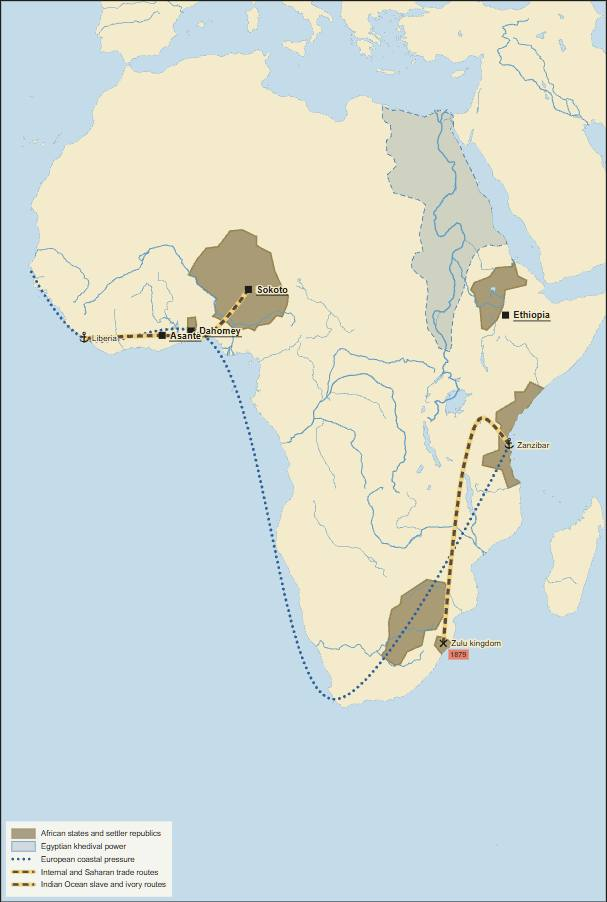
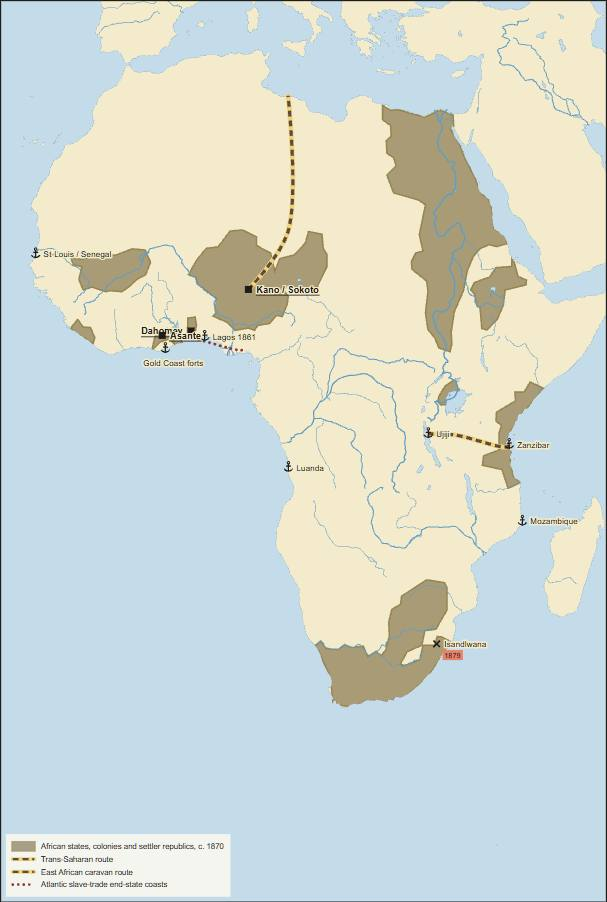
Rebuild national states plates with historical shapes
Copilot-Session: 37f2f47f-8b63-49cd-b8ce-cded564ac449

diff --git a/atlas/plates/canadian-confederation-cpr-resistance-1867-1885.js b/atlas/plates/canadian-confederation-cpr-resistance-1867-1885.js
@@ -1,17 +1,25 @@
 (function(){
- const CAN="#b22d2d", TREATY="#d8a84f", HBC="#9a855f", ROAD="#5b4a3f", WAR="#8c3b3b";
- const canadaClip=[[-141,49],[-123,49],[-115,54],[-103,54],[-96,50],[-83,48.8],[-76,48.3],[-70,50.2],[-60,50.8],[-52,53],[-52,42],[-141,42],[-141,49]];
- window.PLATES["canadian-confederation-cpr-resistance-1867-1885"]={id:"canadian-confederation-cpr-resistance-1867-1885",title:"Canadian Confederation, CPR and resistance, 1867-1885",head:"National states / Canada",folio:"Canadian synthesis",viewer:"national/1885/ch-canada-confederation-west",figures:[{caption:"Confederation goes west: provinces, treaties, railway and resistance",share:1,extent:[[-141,41],[-52,63]],projection:"conic",layers:[
-  {id:"canada",type:"area",hist:{year:1878,names:["Canada"]},clipPolygon:canadaClip,colour:CAN,tier:"core",legend:"Dominion of Canada by the late 1870s"},
-  {id:"ruperts",type:"area",hist:{year:1800,names:["Rupert's Land"]},colour:HBC,tier:"influence",legend:"Rupert's Land inheritance"},
-  {id:"treaties",type:"area",polygon:[[-97,49],[-111,49],[-114,51.5],[-110,53.5],[-100,52],[-96,50],[-97,49]],clipToLand:true,colour:TREATY,tier:"conquest",legend:"Treaties 1-7 belt"},
-  {id:"cpr",type:"route",style:"road",weight:2.8,colour:ROAD,legend:"Canadian Pacific Railway, completed 1885",path:[[-75.70,45.42],[-79.38,43.65],[-87,48],[-97.14,49.90],[-104.62,50.45],[-108.30,52.78],[-115.35,51.25],[-119.29,50.84],[-123.37,48.43]]},
+ const C1867="#b22d2d", C1870="#c45a3c", C1871="#3f8f5b", C1873="#8c5aa3", NWT="#d8a84f", TREATY="#6b5b2e", NL="#b8b1a1", ROAD="#5b4a3f";
+ const height=[[-86,48.6],[-84,48.9],[-81,48.7],[-79.5,48.4],[-76,48.3],[-73,49.4],[-70,50.2],[-66,50.4],[-60,50.6],[-57.1,51.4]];
+ const onQcClip=[...height,[-57.1,45.2],[-70,45.0],[-76,43.5],[-79,43.0],[-83,41.6],[-86,41.6],[-86,48.6]];
+ const nwtClip=[[-141,49],[-123,49],[-115,54.5],[-100,55],[-95,51],[-86,49],[-86,62],[-141,62],[-141,49]];
+ const manitoba=[[-99.0,49.0],[-96.5,49.0],[-96.5,50.2],[-99.0,50.2],[-99.0,49.0]];
+ const treaties=[[-97.2,49.0],[-101.5,49.0],[-105.5,49.2],[-110.8,49.6],[-114.6,50.8],[-115.5,51.6],[-113.5,52.5],[-108.8,53.6],[-103.5,52.6],[-99.5,51.0],[-96.7,50.0],[-97.2,49.0]];
+ window.PLATES["canadian-confederation-cpr-resistance-1867-1885"]={id:"canadian-confederation-cpr-resistance-1867-1885",title:"Canadian Confederation, CPR and resistance, 1867-1885",head:"National states / Canada",folio:"Canadian synthesis",viewer:"national/1885/ch-canada-confederation-west",figures:[{caption:"Confederation by joining date, treaties and the CPR",share:1,extent:[[-140,40],[-50,62]],projection:"conic",layers:[
+  {id:"nwt",type:"area",hist:{year:1880,names:["Canada"]},clipPolygon:nwtClip,colour:NWT,tier:"influence",legend:"North-West Territories after 1870"},
+  {id:"on-qc",type:"area",regions:["CA-ON","CA-QC"],clipPolygon:onQcClip,colour:C1867,tier:"core",legend:"1867: Ontario and Quebec (southern settled extent)"},
+  {id:"ns-nb",type:"area",regions:["CA-NS","CA-NB"],colour:C1867,tier:"core",legend:"1867: Nova Scotia and New Brunswick"},
+  {id:"manitoba",type:"area",around:manitoba,clipToLand:true,colour:C1870,tier:"core",legend:"1870: Manitoba postage-stamp province"},
+  {id:"bc",type:"area",regions:["CA-BC"],colour:C1871,tier:"core",legend:"1871: British Columbia"},
+  {id:"pei",type:"area",regions:["CA-PE"],colour:C1873,tier:"core",legend:"1873: Prince Edward Island"},
+  {id:"newfoundland",type:"area",regions:["CA-NL"],colour:NL,tier:"influence",legend:"Newfoundland neutral; joined Canada in 1949"},
+  {id:"treaties",type:"area",around:treaties,clipToLand:true,pattern:"hatch",colour:TREATY,legend:"Treaties 1-7 belt, 1871-77"},
+  {id:"cpr",type:"route",style:"road",weight:2.8,colour:ROAD,legend:"Canadian Pacific Railway, completed 1885",path:[[-73.56,45.50],[-75.70,45.42],[-79.46,46.31],[-80.99,46.49],[-84.35,46.52],[-89.25,48.38],[-97.14,49.90],[-104.62,50.45],[-114.07,51.05],[-116.45,51.30],[-118.60,50.98],[-122.85,49.28],[-123.12,49.28]]},
   {id:"charlottetown",type:"point",symbol:"conference",at:[-63.13,46.24],name:"Charlottetown",labelPos:"e",tag:{text:"1864",colour:"#f1c75b"}},
+  {id:"quebec",type:"point",symbol:"conference",at:[-71.21,46.81],name:"Quebec Conf.",labelPos:"e",tag:{text:"1864",colour:"#f1c75b"}},
   {id:"ottawa",type:"point",symbol:"capital",at:[-75.70,45.42],name:"Ottawa",labelPos:"s",tag:{text:"1867",colour:"#f1c75b"}},
-  {id:"red-river",type:"point",symbol:"insurrection",at:[-97.14,49.90],name:"Red River / Manitoba",labelPos:"n",tag:{text:"1870",colour:"#e8806a"}},
-  {id:"bc",type:"point",symbol:"port",at:[-123.37,48.43],name:"British Columbia",labelPos:"e",tag:{text:"1871",colour:"#f1c75b"}},
-  {id:"batoche",type:"point",symbol:"battle",at:[-108.30,52.78],name:"Batoche",labelPos:"n",tag:{text:"1885",colour:"#e8806a"}},
-  {id:"regina",type:"point",symbol:"capital",at:[-104.62,50.45],name:"Regina",labelPos:"s",tag:{text:"Riel",colour:"#e8806a"}},
-  {id:"last",type:"point",symbol:"port",at:[-119.29,50.84],name:"Last Spike",labelPos:"n",tag:{text:"1885",colour:"#f1c75b"}}
- ],legend:{position:"bottom-left",columns:1}}],text:{intro:"The book skips Canada here, but a national-states round needs the Canadian case: Confederation, treaty-making, railway construction and prairie resistance.",sections:[{heading:"State-building",entries:[{date:"1864-1885",text:"Confederation begins in the east, absorbs the Hudson's Bay Company west, then ties the map together with treaties and the CPR.",refs:["canada","ruperts","treaties","cpr","charlottetown","ottawa","bc","last"]},{date:"1870-1885",text:"Red River and the North-West Resistance show that western expansion was contested by Metis and First Nations actors, not empty-space administration.",refs:["red-river","batoche","regina"]}]}]},sources:["Canadian synthesis added for Ford's Vol. 2 round 3 priorities"]};
+  {id:"red-river",type:"point",symbol:"insurrection",at:[-97.14,49.90],name:"Red River / Winnipeg",labelPos:"n",tag:{text:"1870",colour:"#e8806a"}},
+  {id:"batoche",type:"point",symbol:"battle",at:[-106.10,52.75],name:"Batoche / Riel",labelPos:"n",tag:{text:"1885",colour:"#e8806a"}},
+  {id:"last",type:"point",symbol:"port",at:[-118.60,50.98],name:"Last Spike",labelPos:"n",tag:{text:"1885",colour:"#f1c75b"}}
+ ],legend:{position:"bottom-left",columns:1}}],text:{intro:"Canada is redrawn with province and territorial shapes instead of a single block: 1867 provinces, Manitoba, the North-West Territories, British Columbia and PEI remain distinct, while Newfoundland is deliberately left neutral because it joined only in 1949.",sections:[{heading:"State-building",entries:[{date:"1864-1873",text:"Charlottetown and Quebec produce Confederation; Ontario, Quebec, Nova Scotia and New Brunswick begin it, Manitoba, British Columbia and PEI join in sequence.",refs:["on-qc","ns-nb","manitoba","bc","pei","charlottetown","quebec","ottawa"]},{date:"1871-1885",text:"Treaties 1-7, Red River, the CPR and Batoche show that western expansion was negotiated, coerced and resisted rather than empty-space administration.",refs:["nwt","treaties","cpr","red-river","batoche","last"]},{date:"1949",text:"Newfoundland is shown neutral in this frame; it was not part of Confederation until 1949.",refs:["newfoundland"]}]}]},sources:["Canadian synthesis added for Ford's Vol. 2 round 3 priorities"]};
 })();

diff --git a/atlas/plates/us-civil-war-reconstruction-1854-1877.js b/atlas/plates/us-civil-war-reconstruction-1854-1877.js
@@ -1,18 +1,22 @@
 (function(){
- const UNION="#2f7f86", CONF="#8c3b3b", BORDER="#d8a84f", ROAD="#5b4a3f";
- window.PLATES["us-civil-war-reconstruction-1854-1877"]={id:"us-civil-war-reconstruction-1854-1877",title:"United States: Civil War and Reconstruction, 1854-1877",head:"National states / USA",folio:"94-95",viewer:"national/1863/ch-us-civil-war-reconstruction",figures:[{caption:"Secession, campaigns and the contested peace",share:1,extent:[[-103,24],[-66,43]],projection:"conic",layers:[
-  {id:"usa",type:"area",hist:{year:1878,names:["United States of America"]},colour:UNION,tier:"influence",legend:"United States after the war"},
-  {id:"confed",type:"area",polygon:[[-94,36.5],[-89,36.5],[-82,35],[-75,36],[-76,34],[-80,25],[-86,30],[-94,29],[-94,36.5]],clipToLand:true,colour:CONF,tier:"core",legend:"Confederate states, 1861-65"},
-  {id:"border",type:"area",polygon:[[-95,39.5],[-76,39.5],[-75,36],[-83,37.5],[-89,37],[-95,37],[-95,39.5]],clipToLand:true,colour:BORDER,tier:"conquest",legend:"Border-state hinge"},
-  {id:"anaconda",type:"route",style:"dashed",geo:true,weight:2.6,colour:UNION,legend:"Union blockade / Anaconda",path:[[-74,40],[-78,36],[-80,32],[-82,29],[-89,29],[-91,30],[-90.88,32.35]]},
-  {id:"east",type:"route",style:"road",weight:2.4,colour:CONF,legend:"Eastern theatre",path:[[-79.93,32.78],[-77.44,37.54],[-77.23,39.83],[-78.81,37.38]]},
-  {id:"sherman",type:"route",style:"road",weight:2.4,colour:UNION,legend:"Western theatre and Sherman",path:[[-90.88,32.35],[-84.39,33.75],[-79.93,32.78]]},
-  {id:"kansas",type:"point",symbol:"insurrection",at:[-95.24,38.97],name:"Kansas",labelPos:"w",tag:{text:"1854",colour:"#f1c75b"}},
-  {id:"sumter",type:"point",symbol:"battle",at:[-79.93,32.78],name:"Fort Sumter",labelPos:"e",tag:{text:"1861",colour:"#e8806a"}},
-  {id:"richmond",type:"point",symbol:"capital",at:[-77.44,37.54],name:"Richmond",labelPos:"s"},
+ const UNION="#2f7f86", CONF="#8c3b3b", BORDER="#d8a84f", KS="#b36b2e", ROAD="#5b4a3f";
+ window.PLATES["us-civil-war-reconstruction-1854-1877"]={id:"us-civil-war-reconstruction-1854-1877",title:"United States: Civil War and Reconstruction, 1854-1877",head:"National states / USA",folio:"94-95",viewer:"national/1863/ch-us-civil-war-reconstruction",figures:[{caption:"Secession, campaigns and the contested peace",share:0.72,extent:[[-105,24],[-66,46]],projection:"conic",layers:[
+  {id:"union",type:"area",hist:{year:1880,names:["United States of America"]},colour:UNION,tier:"influence",legend:"United States / Union"},
+  {id:"confed",type:"area",regions:["US-SC","US-MS","US-FL","US-AL","US-GA","US-LA","US-TX","US-VA","US-AR","US-NC","US-TN"],colour:CONF,tier:"core",legend:"Confederate states, 1861-65"},
+  {id:"border",type:"area",regions:["US-MO","US-KY","US-MD","US-DE","US-WV"],pattern:"hatch",colour:BORDER,legend:"Border slave states in the Union"},
+  {id:"kansas",type:"area",regions:["US-KS"],pattern:"crosshatch",colour:KS,legend:"Kansas-Nebraska flashpoint, 1854"},
+  {id:"blockade",type:"route",style:"dotted",geo:true,weight:2.4,colour:UNION,legend:"Anaconda blockade offshore",path:[[-74,40],[-76,36],[-80,31],[-84,28],[-90,28],[-95,29],[-97,28]]},
+  {id:"grant",type:"route",style:"road",weight:2.5,colour:UNION,legend:"Grant on the Mississippi",path:[[-89.18,37.01],[-88.35,35.14],[-90.88,32.35]]},
+  {id:"sherman",type:"route",style:"road",weight:2.5,colour:UNION,legend:"Sherman: Chattanooga-Atlanta-Savannah-Carolinas",path:[[-85.31,35.05],[-84.39,33.75],[-81.09,32.08],[-79.93,32.78],[-78.64,35.78]]},
+  {id:"east",type:"route",style:"dashed",weight:2.4,colour:CONF,legend:"Eastern theatre",path:[[-77.04,38.90],[-76.97,39.47],[-77.23,39.83],[-77.44,37.54],[-78.81,37.38]]},
   {id:"wash",type:"point",symbol:"capital",at:[-77.04,38.90],name:"Washington",labelPos:"e"},
+  {id:"richmond",type:"point",symbol:"capital",at:[-77.44,37.54],name:"Richmond",labelPos:"s"},
+  {id:"antietam",type:"point",symbol:"battle",at:[-76.97,39.47],name:"Antietam",labelPos:"w",tag:{text:"1862",colour:"#e8806a"}},
   {id:"gettysburg",type:"point",symbol:"battle",at:[-77.23,39.83],name:"Gettysburg",labelPos:"n",tag:{text:"1863",colour:"#e8806a"}},
   {id:"vicksburg",type:"point",symbol:"battle",at:[-90.88,32.35],name:"Vicksburg",labelPos:"w",tag:{text:"1863",colour:"#e8806a"}},
+  {id:"atlanta",type:"point",symbol:"battle",at:[-84.39,33.75],name:"Atlanta",labelPos:"e",tag:{text:"1864",colour:"#e8806a"}},
   {id:"appomattox",type:"point",symbol:"treaty",at:[-78.81,37.38],name:"Appomattox",labelPos:"w",tag:{text:"1865",colour:"#f1c75b"}}
- ],legend:{position:"bottom-left",columns:1}}],text:{intro:"The U.S. national-state crisis is the slavery expansion question becoming secession and war, then Reconstruction and its retreat.",sections:[{heading:"War and aftermath",entries:[{date:"1854-1861",text:"Kansas-Nebraska and Dred Scott make slavery in the territories the central constitutional fight.",refs:["kansas","border"]},{date:"1861-1865",text:"The Confederacy fights from Richmond; the Union blockade, Mississippi campaign and eastern battles lead to Appomattox.",refs:["confed","anaconda","east","sherman","gettysburg","vicksburg","appomattox"]},{date:"1865-1877",text:"Emancipation and constitutional amendments remake citizenship, but the end of Reconstruction leaves Jim Crow politics to harden in the South.",refs:["usa","confed"]}]}]},sources:["Penguin Atlas Vol. 2 pp. 94-95"]};
+ ],legend:{position:"bottom-left",columns:1}},{caption:"Reconstruction, 1865-1877",kind:"diagram",share:0.28,diagram:{height:0.58,nodes:[{id:"a13",label:"13th: slavery abolished, 1865",x:0.22,y:0.12,w:0.30,h:0.13,colour:UNION,strong:true},{id:"a14",label:"14th: citizenship, equal protection, 1868",x:0.31,y:0.36,w:0.38,h:0.13,colour:UNION,strong:true},{id:"a15",label:"15th: voting rights, 1870",x:0.60,y:0.12,w:0.28,h:0.13,colour:UNION,strong:true},{id:"end",label:"1877 compromise; federal retreat",x:0.32,y:0.64,w:0.36,h:0.13,colour:CONF}],arrows:[{id:"p1",from:"a13",to:"a14"},{id:"p2",from:"a14",to:"a15"},{id:"p3",from:"a15",to:"end",label:"Jim Crow hardens after retreat"}]}}],text:{intro:"The U.S. national-state crisis is the slavery expansion question becoming secession and war, then Reconstruction and its retreat.",sections:[{heading:"War",entries:[{date:"1854-1861",text:"Kansas-Nebraska and Dred Scott make slavery in the territories the central constitutional fight.",refs:["kansas","border"]},{date:"1861-1865",text:"The Confederacy includes the eleven seceded states. Union strategy combines blockade, Mississippi control, the western campaigns and the eastern contest around Washington and Richmond.",refs:["confed","blockade","grant","sherman","east","gettysburg","vicksburg","atlanta","appomattox"]}]},{heading:"Reconstruction",entries:[{date:"1865-1877",text:"The 13th, 14th and 15th Amendments remake citizenship and political rights. The 1877 compromise and federal retreat leave southern white Democratic governments to construct the Jim Crow order.",refs:["a13","a14","a15","end"]}]}]},sources:["Penguin Atlas Vol. 2 pp. 94-95"]};
 })();
+
+

diff --git a/atlas/plates/balkans-san-stefano-berlin-1878.js b/atlas/plates/balkans-san-stefano-berlin-1878.js
@@ -1,16 +1,28 @@
 (function(){
- const OTT="#9a6a32", RUS="#6b8c3f", BUL="#3f8f5b", SER="#b36b2e", AUS="#d8a84f";
- const bigBul=[[22,41],[24,44],[27,44.5],[29,43.4],[28.5,41],[26,40.2],[23,40.6],[22,41]];
- window.PLATES["balkans-san-stefano-berlin-1878"]={id:"balkans-san-stefano-berlin-1878",title:"The Balkans: San Stefano and Berlin, 1878",head:"National states / Balkans",folio:"80-83",viewer:"national/1878/ch-austria-hungary-balkans",figures:[{caption:"San Stefano's large Bulgaria cut down by Berlin",share:1,extent:[[12,39],[31,49]],projection:"conic",layers:[
-  {id:"ottoman",type:"area",hist:{year:1878,names:["Ottoman Empire"]},colour:OTT,tier:"influence",legend:"Ottoman Empire after Berlin"},
-  {id:"austria",type:"area",hist:{year:1878,names:["Austria Hungary"]},colour:AUS,tier:"influence",legend:"Austria-Hungary; Bosnia occupied"},
-  {id:"states",type:"area",hist:{year:1878,names:["Serbia","Romania","Bulgaria"]},colour:SER,tier:"core",legend:"Recognized or autonomous Balkan states"},
-  {id:"big-bulgaria",type:"area",around:bigBul,clipToLand:true,pattern:"stripe",colour:BUL,tier:"conquest",legend:"San Stefano Bulgaria, March 1878"},
-  {id:"russian",type:"route",style:"road",weight:2.5,colour:RUS,legend:"Russian advance, 1877-78",path:[[30.3,46.5],[26.0,43.2],[28.98,41.01]]},
-  {id:"san",type:"point",symbol:"treaty",at:[28.98,41.01],name:"San Stefano",labelPos:"e",tag:{text:"Mar 1878",colour:"#f1c75b"}},
-  {id:"berlin",type:"point",symbol:"treaty",at:[13.40,52.52],name:"Berlin",labelPos:"e",tag:{text:"Jul 1878",colour:"#f1c75b"}},
-  {id:"sofia",type:"point",symbol:"capital",at:[23.32,42.70],name:"Sofia"},
-  {id:"belgrade",type:"point",symbol:"capital",at:[20.46,44.82],name:"Serbia"},
-  {id:"bucharest",type:"point",symbol:"capital",at:[26.10,44.43],name:"Romania"}
- ],legend:{position:"bottom-left",columns:1}}],text:{intro:"The book's Balkan maps are about scale: San Stefano creates a large Russian-backed Bulgaria; Berlin cuts it down and makes the settlement a European balance-of-power compromise.",sections:[{heading:"Settlement",entries:[{date:"1878",text:"Berlin recognizes Serbia, Romania and Montenegro, makes Bulgaria smaller and autonomous, and lets Austria-Hungary occupy Bosnia-Herzegovina.",refs:["big-bulgaria","states","austria","ottoman","russian","san","berlin"]}]}]},sources:["Penguin Atlas Vol. 2 pp. 80-83"]};
+ const OTT="#9a6a32", RUS="#6b8c3f", BUL="#3f8f5b", SER="#b36b2e", AUS="#d8a84f", BRIT="#2f5f93";
+ const sanBul=[[25.0,43.8],[27.9,43.8],[28.6,42.6],[27.7,41.0],[25.5,40.2],[23.3,40.7],[21.6,41.7],[22.7,42.7],[24.0,43.3],[25.0,43.8]];
+ const rumelia=[[24.0,42.0],[27.8,42.0],[27.8,41.2],[25.5,40.6],[23.8,41.0],[24.0,42.0]];
+ window.PLATES["balkans-san-stefano-berlin-1878"]={id:"balkans-san-stefano-berlin-1878",title:"The Balkans: San Stefano and Berlin, 1878",head:"National states / Balkans",folio:"80-83",viewer:"national/1878/ch-austria-hungary-balkans",figures:[{caption:"March 1878: San Stefano",share:0.5,extent:[[12,34],[35,49]],projection:"conic",layers:[
+  {id:"ottoman-a",type:"area",hist:{year:1878,names:["Ottoman Empire"]},colour:OTT,tier:"influence",legend:"Ottoman Empire"},
+  {id:"romania-a",type:"area",hist:{year:1878,names:["Romania"]},colour:SER,tier:"core",legend:"Romania, Serbia, Montenegro, Greece"},
+  {id:"serbia-a",type:"area",hist:{year:1878,names:["Serbia","Montenegro","Greece"]},colour:SER,tier:"core"},
+  {id:"san-bulgaria",type:"area",around:sanBul,clipToLand:true,pattern:"hatch",colour:BUL,legend:"San Stefano Bulgaria: Danube to Aegean, including Macedonia"},
+  {id:"russian",type:"route",style:"road",weight:2.5,colour:RUS,legend:"Russian advance: Svishtov-Plevna-Shipka-Adrianople",path:[[25.35,43.62],[24.61,43.42],[25.32,42.75],[26.55,42.02],[26.56,41.68],[28.98,41.01]]},
+  {id:"plevna",type:"point",symbol:"battle",at:[24.61,43.42],name:"Plevna"},
+  {id:"shipka",type:"point",symbol:"battle",at:[25.32,42.75],name:"Shipka"},
+  {id:"san",type:"point",symbol:"treaty",at:[28.98,41.01],name:"San Stefano",tag:{text:"Mar 1878",colour:"#f1c75b"}}
+ ],legend:{position:"bottom-left",columns:1}},{caption:"July 1878: Berlin",share:0.5,extent:[[12,34],[35,49]],projection:"conic",layers:[
+  {id:"ottoman-b",type:"area",hist:{year:1878,names:["Ottoman Empire"]},colour:OTT,tier:"influence",legend:"Ottoman Empire after Berlin"},
+  {id:"austria",type:"area",hist:{year:1878,names:["Austria Hungary"]},colour:AUS,tier:"influence",legend:"Austria-Hungary"},
+  {id:"bosnia",type:"area",hist:{year:1880,names:["Bosnia-Herzegovina"]},pattern:"hatch",colour:AUS,legend:"Bosnia-Herzegovina under Austrian occupation"},
+  {id:"states",type:"area",hist:{year:1880,names:["Romania","Serbia","Montenegro","Bulgaria","Greece"]},colour:SER,tier:"core",legend:"Recognized or autonomous Balkan states"},
+  {id:"rumelia",type:"area",around:rumelia,clipToLand:true,pattern:"crosshatch",colour:BUL,legend:"Eastern Rumelia separate from Bulgaria"},
+  {id:"cyprus",type:"point",symbol:"port",at:[33.38,35.18],name:"Cyprus to Britain",labelPos:"w",tag:{text:"1878",colour:"#f1c75b"}},
+  {id:"berlin",type:"point",symbol:"treaty",at:[13.40,52.52],name:"Berlin",tag:{text:"Jul 1878",colour:"#f1c75b"}},
+  {id:"sofia",type:"point",symbol:"capital",at:[23.32,42.70],name:"Sofia",labelPos:"s"},
+  {id:"belgrade",type:"point",symbol:"capital",at:[20.46,44.82],name:"Belgrade",labelPos:"w"},
+  {id:"bucharest",type:"point",symbol:"capital",at:[26.10,44.43],name:"Bucharest",labelPos:"e"}
+ ],legend:{position:"bottom-left",columns:1}}],text:{intro:"The Balkan settlement is shown as the book's comparison: a large San Stefano Bulgaria and the smaller Berlin settlement with Bosnia occupied by Austria-Hungary and Eastern Rumelia separate.",sections:[{heading:"Settlement",entries:[{date:"March 1878",text:"Russian victory produces a large Bulgaria reaching toward the Aegean and Macedonia.",refs:["ottoman-a","romania-a","serbia-a","san-bulgaria","russian","plevna","shipka","san"]},{date:"July 1878",text:"Berlin recognizes or confirms Balkan states, shrinks Bulgaria, separates Eastern Rumelia, gives Bosnia-Herzegovina to Austrian occupation and Cyprus to Britain.",refs:["ottoman-b","austria","states","rumelia","bosnia","cyprus","berlin","sofia","belgrade","bucharest"]}]}]},sources:["Penguin Atlas Vol. 2 pp. 80-83"]};
 })();
+
+

diff --git a/atlas/plates/africa-before-partition-1870.js b/atlas/plates/africa-before-partition-1870.js
@@ -1,17 +1,21 @@
 (function(){
  const AFR="#7a6b42", TRADE="#5b4a3f", EUR="#2f5f93", WAR="#8c3b3b";
- window.PLATES["africa-before-partition-1870"]={id:"africa-before-partition-1870",title:"Africa before partition, c. 1870",head:"National states / Africa",folio:"96-97",viewer:"national/1870/ch-africa-before-partition",figures:[{caption:"African states and trade systems before the scramble",share:1,extent:[[-20,-36],[50,24]],projection:"mercator",layers:[
-  {id:"states",type:"area",hist:{year:1878,names:["Sokoto Caliphate","Dahomey","Ethiopia","Sultinate of Zanzibar","Zululand","Transvaal","Orange Free State"]},colour:AFR,tier:"core",legend:"African states and settler republics"},
-  {id:"egypt",type:"area",hist:{year:1878,names:["Egypt"]},colour:EUR,tier:"influence",legend:"Egyptian khedival power"},
-  {id:"coast",type:"route",style:"dotted",weight:2.2,colour:EUR,legend:"European coastal pressure",path:[[-17,14],[-10.8,6.31],[3.38,6.52],[18.42,-33.92],[39.19,-6.16]]},
-  {id:"west-trade",type:"route",style:"road",weight:2.3,colour:TRADE,legend:"Internal and Saharan trade routes",path:[[8.52,12.0],[3.38,6.52],[-1.62,6.67],[-10.8,6.31]]},
-  {id:"east-trade",type:"route",style:"road",weight:2.3,colour:TRADE,legend:"Indian Ocean slave and ivory routes",path:[[39.19,-6.16],[36,-3],[34,-8],[31.45,-28.30]]},
-  {id:"liberia",type:"point",symbol:"port",at:[-10.80,6.31],name:"Liberia"},
-  {id:"sokoto",type:"point",symbol:"capital",at:[8.52,12.00],name:"Sokoto"},
-  {id:"dahomey",type:"point",symbol:"capital",at:[1.78,7.18],name:"Dahomey"},
+ window.PLATES["africa-before-partition-1870"]={id:"africa-before-partition-1870",title:"Africa before partition, c. 1870",head:"National states / Africa",folio:"96-97",viewer:"national/1870/ch-africa-before-partition",figures:[{caption:"States, coastal enclaves and trade routes before the scramble",share:1,extent:[[-20,-36],[50,24]],projection:"mercator",layers:[
+  {id:"states",type:"area",hist:{year:1880,names:["Sokoto Caliphate","Tukular Caliphate","Asante","Dahomey","Liberia","Ethiopia","Egypt","Buganda","Kanem-Bornu","Sultanate of Zanzibar","Zululand","Transvaal","Orange Free State","Cape Colony","Natal"]},colour:AFR,tier:"core",legend:"African states, colonies and settler republics, c. 1870"},
+  {id:"trans-saharan",type:"route",style:"road",weight:2.3,colour:TRADE,legend:"Trans-Saharan route",path:[[8.52,12.0],[13.18,18.54],[13.19,32.89]]},
+  {id:"east-caravan",type:"route",style:"road",weight:2.3,colour:TRADE,legend:"East African caravan route",path:[[39.19,-6.16],[38.90,-6.44],[32.80,-5.02],[29.68,-4.90]]},
+  {id:"atlantic-end",type:"route",style:"dotted",weight:2.2,colour:WAR,legend:"Atlantic slave-trade end-state coasts",path:[[2.09,6.36],[7.38,4.95],[8.32,4.98]]},
+  {id:"stlouis",type:"point",symbol:"port",at:[-16.50,16.03],name:"St-Louis / Senegal"},
+  {id:"lagos",type:"point",symbol:"port",at:[3.38,6.52],name:"Lagos 1861",labelPos:"e"},
+  {id:"gold",type:"point",symbol:"port",at:[-1.24,5.10],name:"Gold Coast forts",labelPos:"s"},
+  {id:"luanda",type:"point",symbol:"port",at:[13.23,-8.84],name:"Luanda"},
+  {id:"moz",type:"point",symbol:"port",at:[40.74,-15.03],name:"Mozambique"},
+  {id:"kano",type:"point",symbol:"capital",at:[8.52,12.00],name:"Kano / Sokoto"},
+  {id:"dahomey",type:"point",symbol:"capital",at:[1.78,7.18],name:"Dahomey",labelPos:"w"},
   {id:"asante",type:"point",symbol:"capital",at:[-1.62,6.67],name:"Asante"},
-  {id:"ethiopia",type:"point",symbol:"capital",at:[38.76,9.03],name:"Ethiopia"},
   {id:"zanzibar",type:"point",symbol:"port",at:[39.19,-6.16],name:"Zanzibar"},
-  {id:"zulu",type:"point",symbol:"battle",at:[31.45,-28.30],name:"Zulu kingdom",tag:{text:"1879",colour:"#e8806a"}}
- ],legend:{position:"bottom-left",columns:1}}],text:{intro:"Africa before partition was not blank space. It contained states, city networks, religious reform polities, settler republics, long-distance commerce and slave-trading systems, including African sellers and raiders as well as foreign buyers.",sections:[{heading:"Before the scramble",entries:[{date:"c. 1870",text:"The map stresses African political agency and trade before partition: Sokoto, Dahomey, Asante, Ethiopia, Zanzibar, Zulu power and Boer republics all shape the field.",refs:["states","sokoto","dahomey","asante","ethiopia","zanzibar","zulu"]},{date:"c. 1870",text:"Coastal European pressure coexists with internal routes and Indian Ocean commerce; the slave trade is internal, regional and Atlantic/Indian Ocean, not a single external line.",refs:["coast","west-trade","east-trade","liberia"]}]}]},sources:["Penguin Atlas Vol. 2 pp. 96-97"]};
+  {id:"ujiji",type:"point",symbol:"port",at:[29.68,-4.90],name:"Ujiji"},
+  {id:"isandlwana",type:"point",symbol:"battle",at:[30.65,-28.36],name:"Isandlwana",tag:{text:"1879",colour:"#e8806a"}}
+ ],legend:{position:"bottom-left",columns:1}}],text:{intro:"Africa before partition was not blank space. It contained states, city networks, religious reform polities, settler republics, long-distance commerce and slave-trading systems.",sections:[{heading:"Before the scramble",entries:[{date:"c. 1870",text:"The map uses historical 1880 shapes for Sokoto, Tukular, Asante, Dahomey, Liberia, Ethiopia, Egypt, Buganda, Kanem-Bornu, Zanzibar, Zululand, Transvaal, Orange Free State, Cape Colony and Natal.",refs:["states","kano","dahomey","asante","zanzibar","isandlwana"]},{date:"c. 1870",text:"Captives sold by states such as Dahomey, Asante and Sokoto were usually war captives or people from outside the polity. The economics shifted after British and U.S. abolition: Atlantic demand was suppressed, but internal slavery and Indian Ocean commerce continued, while palm oil and other 'legitimate commerce' expanded on parts of the coast.",refs:["atlantic-end","lagos","gold"]},{date:"c. 1870",text:"Trans-Saharan and East African caravan routes linked inland markets to Tripoli and Zanzibar/Bagamoyo without implying a single all-African route.",refs:["trans-saharan","east-caravan","ujiji"]}]}]},sources:["Penguin Atlas Vol. 2 pp. 96-97"]};
 })();
+

diff --git a/atlas/plates/italian-unification-1850-1871.js b/atlas/plates/italian-unification-1850-1871.js
@@ -1,16 +1,21 @@
 (function(){
- const SAR="#2f7f86", ITA="#3f8f5b", AUS="#d8a84f", PAP="#8c3b3b", ROAD="#5b4a3f";
- window.PLATES["italian-unification-1850-1871"]={id:"italian-unification-1850-1871",title:"Italian unification in stages, 1850-1871",head:"National states / Italy",folio:"72-75",viewer:"national/1860/ch-italian-unification",figures:[{caption:"Piedmont, Garibaldi and the completion of Italy",share:1,extent:[[5.5,36],[19,47.8]],projection:"conic",layers:[
-  {id:"italy-1871",type:"area",hist:{year:1878,names:["Italy"]},colour:ITA,tier:"core",legend:"Kingdom of Italy by 1871"},
-  {id:"sardinia-1850",type:"area",hist:{year:1815,names:["Kingdom of Sardinia"]},pattern:"stripe",colour:SAR,tier:"conquest",legend:"Piedmont-Sardinia core"},
-  {id:"austria-1850",type:"area",hist:{year:1815,names:["Austrian Empire"]},colour:AUS,tier:"influence",legend:"Austrian Lombardy-Venetia before 1859/66"},
-  {id:"papal-1850",type:"area",hist:{year:1815,names:["Papal States"]},colour:PAP,tier:"influence",legend:"Papal States before Rome, 1870"},
-  {id:"south",type:"area",hist:{year:1815,names:["Kingdom of the Two Sicilies"]},pattern:"hatch",colour:ITA,tier:"conquest",legend:"Garibaldi and the south, 1860"},
-  {id:"garibaldi",type:"route",style:"road",weight:2.4,colour:ROAD,legend:"Garibaldi's Thousand",path:[[7.69,45.07],[13.36,38.12],[14.27,40.85]]},
-  {id:"turin",type:"point",symbol:"capital",at:[7.69,45.07],name:"Turin",tag:{text:"1861",colour:"#f1c75b"}},
-  {id:"milan",type:"point",symbol:"battle",at:[9.19,45.46],name:"Lombardy",tag:{text:"1859",colour:"#e8806a"}},
-  {id:"palermo",type:"point",symbol:"battle",at:[13.36,38.12],name:"Palermo",tag:{text:"1860",colour:"#e8806a"}},
-  {id:"venice",type:"point",symbol:"port",at:[12.33,45.44],name:"Venice",labelPos:"e",tag:{text:"1866",colour:"#f1c75b"}},
+ const S59="#3f8f5b", S60="#2f7f86", S66="#d8a84f", S70="#8c3b3b", AUS="#b8b1a1", ROAD="#5b4a3f";
+ window.PLATES["italian-unification-1850-1871"]={id:"italian-unification-1850-1871",title:"Italian unification in stages, 1850-1871",head:"National states / Italy",folio:"72-75",viewer:"national/1860/ch-italian-unification",figures:[{caption:"The stages of Italian unification",share:1,extent:[[5.5,36],[19,47.8]],projection:"conic",layers:[
+  {id:"sardinia",type:"area",hist:{year:1815,names:["Kingdom of Sardinia"]},colour:S59,tier:"core",legend:"Piedmont-Sardinia, leading state"},
+  {id:"lombardy",type:"area",hist:{year:1815,names:["Lombardy"]},colour:S59,tier:"core",legend:"1859: Lombardy"},
+  {id:"tuscany",type:"area",hist:{year:1815,names:["Tuscany","Modena","Parma"]},colour:S60,tier:"conquest",legend:"1860: central duchies"},
+  {id:"south",type:"area",hist:{year:1815,names:["Kingdom of the Two Sicilies"]},colour:S60,tier:"conquest",legend:"1860: Two Sicilies"},
+  {id:"venetia",type:"area",hist:{year:1815,names:["Austrian Empire"]},clipPolygon:[[10.7,44.8],[13.9,44.8],[14.2,46.7],[11.0,46.8],[10.7,44.8]],colour:S66,tier:"conquest",legend:"1866: Venetia"},
+  {id:"rome-papal",type:"area",hist:{year:1815,names:["Papal States"]},colour:S70,tier:"conquest",legend:"1870: Rome and remaining Papal State"},
+  {id:"garibaldi",type:"route",style:"road",weight:2.4,colour:ROAD,legend:"Garibaldi: Quarto-Marsala-Naples-Volturno",path:[[8.95,44.40],[12.43,37.80],[13.36,38.12],[15.65,38.11],[14.27,40.85],[14.08,41.16]]},
+  {id:"magenta",type:"point",symbol:"battle",at:[8.88,45.47],name:"Magenta",labelPos:"w",tag:{text:"1859",colour:"#e8806a"}},
+  {id:"solferino",type:"point",symbol:"battle",at:[10.57,45.37],name:"Solferino 1859",labelPos:"n"},
+  {id:"marsala",type:"point",symbol:"port",at:[12.43,37.80],name:"Marsala",labelPos:"w",tag:{text:"May 1860",colour:"#f1c75b"}},
+  {id:"naples",type:"point",symbol:"capital",at:[14.27,40.85],name:"Naples",labelPos:"e"},
+  {id:"custoza",type:"point",symbol:"battle",at:[10.79,45.38],name:"Custoza 1866",labelPos:"s"},
+  {id:"lissa",type:"point",symbol:"battle",at:[16.20,43.05],name:"Lissa",labelPos:"e",tag:{text:"1866",colour:"#e8806a"}},
+  {id:"venice",type:"point",symbol:"city",at:[12.33,45.44],name:"Venice",labelPos:"e"},
   {id:"rome",type:"point",symbol:"capital",at:[12.50,41.90],name:"Rome",labelPos:"w",tag:{text:"1870",colour:"#f1c75b"}}
- ],legend:{position:"bottom-left",columns:1}}],text:{intro:"Italian unification was cumulative: Piedmont supplied monarchy and diplomacy, Garibaldi supplied revolutionary force, and wars opened Venetia and Rome.",sections:[{heading:"Stages",entries:[{date:"1859",text:"France and Piedmont defeat Austria in Lombardy.",refs:["milan","austria-1850"]},{date:"1860-1861",text:"Garibaldi's southern campaign is folded into a Piedmontese monarchy.",refs:["south","garibaldi","palermo","turin"]},{date:"1866-1870",text:"Venetia and then Rome complete the kingdom's core map.",refs:["italy-1871","rome","venice","papal-1850"]}]}]},sources:["Penguin Atlas Vol. 2 pp. 72-75"]};
+ ],legend:{position:"bottom-left",columns:1}}],text:{intro:"Italian unification is shown from historical 1815 states rather than modern blobs: Piedmont-Sardinia, Lombardy, the central duchies, the Two Sicilies, Venetia and Rome.",sections:[{heading:"Stages",entries:[{date:"1859",text:"Magenta and Solferino transfer Lombardy to the Piedmontese project.",refs:["sardinia","lombardy","magenta","solferino"]},{date:"1860",text:"Central duchies join, while Garibaldi sails from Quarto to Marsala and carries the southern kingdom to Naples and the Volturno.",refs:["tuscany","south","garibaldi","marsala","naples"]},{date:"1866-1870",text:"Venetia follows the Austro-Prussian War; Rome follows the collapse of French protection in 1870.",refs:["venetia","custoza","lissa","venice","rome-papal","rome"]}]}]},sources:["Penguin Atlas Vol. 2 pp. 72-75"]};
 })();
+

diff --git a/atlas/plates/china-japan-treaty-ports-meiji-1850-1890.js b/atlas/plates/china-japan-treaty-ports-meiji-1850-1890.js
@@ -1,17 +1,22 @@
 (function(){
- const CHN="#d8a84f", JPN="#387a5b", BRIT="#2f5f93", WAR="#8c3b3b", IND="#b36b2e";
- window.PLATES["china-japan-treaty-ports-meiji-1850-1890"]={id:"china-japan-treaty-ports-meiji-1850-1890",title:"China and Japan: treaty ports, Taiping and Meiji, 1850-1890",head:"National states / Asia",folio:"88-93",viewer:"national/1868/ch-china-japan-crisis-modernization",figures:[{caption:"Crisis and reform in East and South Asia",share:1,extent:[[68,5],[145,45]],projection:"mercator",layers:[
-  {id:"india",type:"area",hist:{year:1878,names:["British Raj"]},colour:IND,tier:"core",legend:"British Raj after 1858"},
-  {id:"japan",type:"area",hist:{year:1878,names:["Imperial Japan"]},colour:JPN,tier:"core",legend:"Meiji Japan"},
-  {id:"china-field",type:"area",polygon:[[104,22],[113,20],[122,29],[119,35],[110,34],[104,29],[104,22]],clipToLand:true,colour:CHN,tier:"influence",legend:"Qing crisis zone"},
-  {id:"taiping",type:"route",style:"road",weight:2.5,colour:WAR,legend:"Taiping Rebellion, 1850-64",path:[[109.6,23.1],[113.3,23.1],[118.8,32.1],[116.4,39.9]]},
-  {id:"ports",type:"route",style:"dotted",weight:2.2,colour:BRIT,legend:"Treaty-port coast",path:[[114.17,22.32],[113.26,23.13],[118.8,32.1],[121.47,31.23],[120.16,30.25]]},
+ const QING="#d8a84f", JPN="#387a5b", BRIT="#2f5f93", WAR="#8c3b3b", IND="#b36b2e";
+ const taiping=[[108,23],[113,24],[119,29],[121,32],[118,33],[112,31],[106,27],[108,23]];
+ window.PLATES["china-japan-treaty-ports-meiji-1850-1890"]={id:"china-japan-treaty-ports-meiji-1850-1890",title:"China and Japan: treaty ports, Taiping and Meiji, 1850-1890",head:"National states / Asia",folio:"88-93",viewer:"national/1868/ch-china-japan-crisis-modernization",figures:[{caption:"Revolt, treaty ports and modernization in East and South Asia",share:1,extent:[[68,5],[145,45]],projection:"mercator",layers:[
+  {id:"india",type:"area",hist:{year:1880,names:["British Raj"]},colour:IND,tier:"core",legend:"British Raj after 1858"},
+  {id:"japan",type:"area",hist:{year:1880,names:["Imperial Japan"]},colour:JPN,tier:"core",legend:"Imperial Japan / Meiji state"},
+  {id:"qing-core",type:"area",regions:["CHN"],colour:QING,tier:"influence",legend:"Qing China (modern outline used where hist layer has no Qing state)"},
+  {id:"taiping",type:"area",around:taiping,clipToLand:true,pattern:"hatch",colour:WAR,legend:"Taiping zone around the Yangtze basin, 1850-64"},
+  {id:"india-revolt",type:"route",style:"road",weight:2.3,colour:WAR,legend:"Indian Rebellion centres, 1857",path:[[77.70,28.98],[77.21,28.61],[80.95,26.85],[88.36,22.57]]},
+  {id:"ports",type:"route",style:"dotted",weight:2.2,colour:BRIT,legend:"Treaty-port coast",path:[[113.26,23.13],[114.17,22.32],[118.80,32.06],[121.47,31.23],[121.55,29.87],[118.08,24.48],[119.30,26.08]]},
   {id:"meerut",type:"point",symbol:"insurrection",at:[77.70,28.98],name:"Meerut",labelPos:"n",tag:{text:"1857",colour:"#e8806a"}},
   {id:"delhi",type:"point",symbol:"battle",at:[77.21,28.61],name:"Delhi",labelPos:"s"},
-  {id:"lucknow",type:"point",symbol:"battle",at:[80.95,26.85],name:"Lucknow"},
-  {id:"nanking",type:"point",symbol:"treaty",at:[118.80,32.06],name:"Nanjing",tag:{text:"1842",colour:"#f1c75b"}},
-  {id:"shanghai",type:"point",symbol:"port",at:[121.47,31.23],name:"Shanghai"},
+  {id:"lucknow",type:"point",symbol:"battle",at:[80.95,26.85],name:"Lucknow",labelPos:"e"},
+  {id:"nanjing",type:"point",symbol:"capital",at:[118.80,32.06],name:"Nanjing",tag:{text:"1853-64",colour:"#e8806a"}},
+  {id:"canton",type:"point",symbol:"port",at:[113.26,23.13],name:"Canton",tag:{text:"1842",colour:"#f1c75b"}},
+  {id:"hongkong",type:"point",symbol:"port",at:[114.17,22.32],name:"Hong Kong",labelPos:"s"},
+  {id:"shanghai",type:"point",symbol:"port",at:[121.47,31.23],name:"Shanghai",tag:{text:"1843",colour:"#f1c75b"}},
   {id:"yokohama",type:"point",symbol:"port",at:[139.64,35.44],name:"Yokohama 1859",labelPos:"s"},
   {id:"tokyo",type:"point",symbol:"capital",at:[139.76,35.68],name:"Tokyo / Meiji 1868",labelPos:"e"}
- ],legend:{position:"bottom-left",columns:1}}],text:{intro:"The Asian pages compare three different imperial encounters: India after revolt, China under civil war and treaty-port pressure, and Japan's state-led Meiji transformation.",sections:[{heading:"Asia",entries:[{date:"1857-1858",text:"The Indian rebellion ends Company rule and begins Crown rule.",refs:["india","meerut","delhi","lucknow"]},{date:"1850-1864",text:"The Taiping Rebellion devastates Qing China while treaty ports embed foreign privilege on the coast.",refs:["china-field","taiping","ports","nanking","shanghai"]},{date:"1853-1890",text:"Japan's forced opening is followed by Meiji centralization and selective modernization.",refs:["japan","yokohama","tokyo"]}]}]},sources:["Penguin Atlas Vol. 2 pp. 88-93"]};
+ ],legend:{position:"bottom-left",columns:1}}],text:{intro:"The Asian pages compare three different imperial encounters: India after revolt, China under civil war and treaty-port pressure, and Japan's state-led Meiji transformation.",sections:[{heading:"Asia",entries:[{date:"1857-1858",text:"The Indian rebellion ends Company rule and begins Crown rule.",refs:["india","india-revolt","meerut","delhi","lucknow"]},{date:"1850-1864",text:"The Taiping Rebellion centres on Nanjing and the Yangtze basin while treaty ports embed foreign privilege on the coast.",refs:["qing-core","taiping","ports","nanjing","canton","hongkong","shanghai"]},{date:"1853-1890",text:"Japan's forced opening is followed by Meiji centralization and selective modernization.",refs:["japan","yokohama","tokyo"]}]}]},sources:["Penguin Atlas Vol. 2 pp. 88-93"]};
 })();
+

diff --git a/atlas/plates/german-unification-1866-1871.js b/atlas/plates/german-unification-1866-1871.js
@@ -1,15 +1,19 @@
 (function(){
- const GER="#4f7f4f", PRUS="#2f5f93", AUS="#d8a84f", FRA="#8c3b3b", ROAD="#5b4a3f";
- window.PLATES["german-unification-1866-1871"]={id:"german-unification-1866-1871",title:"German unification and the Reich, 1866-1871",head:"National states / Germany",folio:"74-79",viewer:"national/1871/ch-german-unification",figures:[{caption:"Prussia excludes Austria and founds the Reich",share:1,extent:[[-1,45],[21,55.5]],projection:"conic",layers:[
-  {id:"germany",type:"area",hist:{year:1878,names:["Germany"]},colour:GER,tier:"core",legend:"German Empire, 1871"},
-  {id:"prussia-1815",type:"area",hist:{year:1815,names:["Prussia"]},pattern:"stripe",colour:PRUS,tier:"conquest",legend:"Prussian core before unification"},
-  {id:"austria",type:"area",hist:{year:1878,names:["Austria Hungary"]},colour:AUS,tier:"influence",legend:"Austria-Hungary excluded"},
-  {id:"france",type:"area",hist:{year:1878,names:["France"]},colour:FRA,tier:"influence",legend:"France after 1871"},
-  {id:"war66",type:"route",style:"road",weight:2.5,colour:ROAD,legend:"Austro-Prussian War, 1866",path:[[13.40,52.52],[15.75,49.44],[16.37,48.21]]},
+ const GER="#4f7f4f", PRUS="#2f5f93", ANN="#5f9ea0", AUS="#d8a84f", FRA="#8c3b3b", ROAD="#5b4a3f";
+ window.PLATES["german-unification-1866-1871"]={id:"german-unification-1866-1871",title:"German unification and the Reich, 1866-1871",head:"National states / Germany",folio:"74-79",viewer:"national/1871/ch-german-unification",figures:[{caption:"Prussia excludes Austria and founds the Reich",share:1,extent:[[-2,42],[24,57]],projection:"conic",layers:[
+  {id:"reich",type:"area",hist:{year:1880,names:["Germany"]},colour:GER,tier:"core",legend:"German Empire, 1871"},
+  {id:"prussia-1815",type:"area",hist:{year:1815,names:["Prussia"]},colour:PRUS,tier:"conquest",legend:"Prussian core before 1866"},
+  {id:"annex",type:"area",pattern:"hatch",colour:ANN,legend:"Prussian annexations, 1866",hist:{year:1815,names:["Hanover","Electoral Hesse","Nassau","Schleswig"]}},
+  {id:"holstein-frankfurt",type:"area",pattern:"hatch",colour:ANN,regions:["DE-SH","DE-HH","DE-HE"],legend:"Schleswig-Holstein, Frankfurt and Hesse-Nassau zone"},
+  {id:"austria",type:"area",hist:{year:1880,names:["Austria Hungary"]},colour:AUS,tier:"influence",legend:"Austria-Hungary excluded"},
+  {id:"france",type:"area",hist:{year:1880,names:["France"]},colour:FRA,tier:"influence",legend:"France after Alsace-Lorraine loss"},
+  {id:"alsace",type:"area",regions:["FR-67","FR-68","FR-57"],pattern:"crosshatch",colour:GER,legend:"Alsace-Lorraine annexed, 1871"},
+  {id:"war66",type:"route",style:"road",weight:2.5,colour:ROAD,legend:"Austro-Prussian War, 1866",path:[[13.40,52.52],[15.83,50.28],[16.37,48.21]]},
   {id:"war70",type:"route",style:"road",weight:2.5,colour:FRA,legend:"Franco-Prussian War, 1870-71",path:[[13.40,52.52],[6.18,49.12],[4.94,49.70],[2.12,48.80]]},
   {id:"berlin",type:"point",symbol:"capital",at:[13.40,52.52],name:"Berlin"},
-  {id:"konig",type:"point",symbol:"battle",at:[15.75,49.44],name:"Koniggratz",tag:{text:"1866",colour:"#e8806a"}},
-  {id:"sedan",type:"point",symbol:"battle",at:[4.94,49.70],name:"Sedan",tag:{text:"1870",colour:"#e8806a"}},
-  {id:"versailles",type:"point",symbol:"capital",at:[2.12,48.80],name:"Versailles",tag:{text:"1871",colour:"#f1c75b"}}
- ],legend:{position:"bottom-left",columns:1}}],text:{intro:"German unification is a sequence of exclusions: Austria is pushed out in 1866, southern German states are drawn in during the French war, and the empire is proclaimed at Versailles.",sections:[{heading:"Wars of unification",entries:[{date:"1866",text:"Koniggratz ends the old Confederation and makes a Prussian-led north possible.",refs:["war66","konig","austria","prussia-1815"]},{date:"1870-1871",text:"War with France brings the southern states into the Reich and makes Alsace-Lorraine the new grievance.",refs:["war70","sedan","versailles","germany","france"]}]}]},sources:["Penguin Atlas Vol. 2 pp. 74-79"]};
+  {id:"sadowa",type:"point",symbol:"battle",at:[15.83,50.28],name:"Sadowa / Koniggratz",labelPos:"e",tag:{text:"1866",colour:"#e8806a"}},
+  {id:"metz",type:"point",symbol:"battle",at:[6.18,49.12],name:"Metz",labelPos:"s"},
+  {id:"sedan",type:"point",symbol:"battle",at:[4.94,49.70],name:"Sedan",labelPos:"w",tag:{text:"1870",colour:"#e8806a"}},
+  {id:"versailles",type:"point",symbol:"capital",at:[2.12,48.80],name:"Versailles",labelPos:"w",tag:{text:"1871",colour:"#f1c75b"}}
+ ],legend:{position:"bottom-left",columns:1}}],text:{intro:"German unification is a sequence of exclusions and annexations: Austria is pushed out in 1866, Prussia absorbs northern states, southern German states enter during the French war, and Alsace-Lorraine is annexed after 1871.",sections:[{heading:"Wars of unification",entries:[{date:"1866",text:"Sadowa/Koniggratz ends the old Confederation and is followed by Prussian annexations in the north.",refs:["war66","sadowa","austria","prussia-1815","annex","holstein-frankfurt"]},{date:"1870-1871",text:"War with France brings the southern states into the Reich; Alsace-Lorraine becomes the new grievance.",refs:["war70","metz","sedan","versailles","reich","alsace","france"]}]}]},sources:["Penguin Atlas Vol. 2 pp. 74-79"]};
 })();
